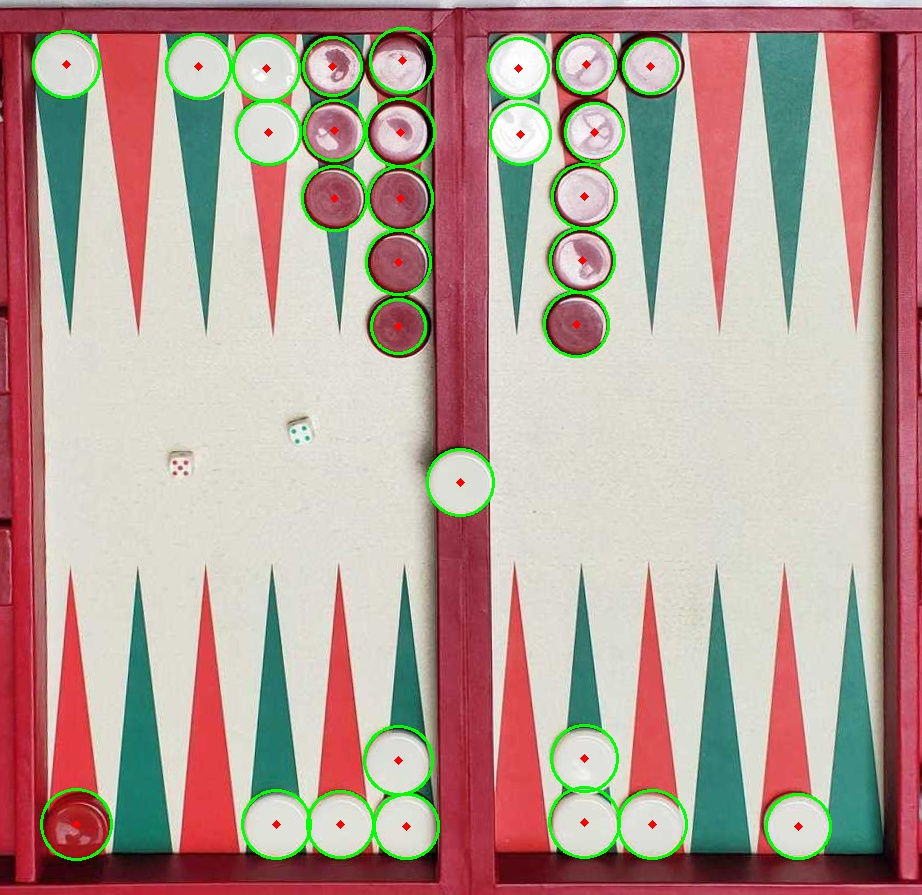
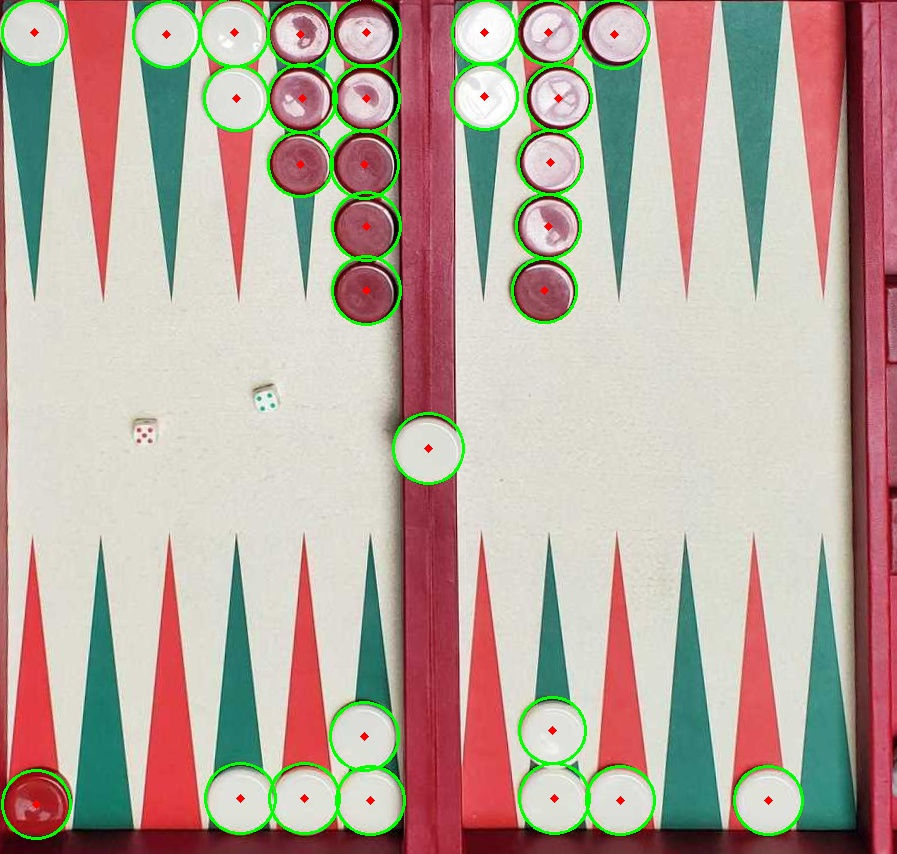
Fix code

diff --git a/warp_and_find_checkers.py b/warp_and_find_checkers.py
@@ -5,12 +5,12 @@ import json
 import argparse
 import numpy as np
 
-def projective_trans(image, coordiates, board_width_to_board_height):
+def projective_trans(image, coordinates, board_width_to_board_height):
 	rect = np.zeros((4, 2), dtype = "float32")
-	rect[0] = coordiates[0]
-	rect[1] = coordiates[1]
-	rect[2] = coordiates[2]
-	rect[3] = coordiates[3]
+	rect[0] = coordinates[0]
+	rect[1] = coordinates[1]
+	rect[2] = coordinates[2]
+	rect[3] = coordinates[3]
 
 	(tl, tr, br, bl) = rect
 
@@ -22,19 +22,18 @@ def projective_trans(image, coordiates, board_width_to_board_height):
 	heightB = np.sqrt(((tl[0] - bl[0]) ** 2) + ((tl[1] - bl[1]) ** 2))
 	max_height = max(int(heightA), int(heightB))
 
-	if max_width > max_height:
-		max_height = int(max_width/board_width_to_board_height)
-	else:
-		max_width = int(max_height*board_width_to_board_height)
+	max_height = int(max_width/board_width_to_board_height)
+
 
 	dst = np.array([
 		[0, 0],
-		[max_width - 1, 0],
-		[max_width - 1, max_height - 1],
-		[0, max_height - 1]], dtype = "float32")
+		[max_width, 0],
+		[max_width, max_height],
+		[0, max_height]], dtype = "float32")
+
 	# compute the perspective transform matrix
 	M = cv2.getPerspectiveTransform(rect, dst)
-	warped = cv2.warpPerspective(image, M, (max_width, max_height))
+	warped = cv2.warpPerspective(image, M, (int(max_width*1.05), int(max_height*1.03)))
 	
 	return warped, M
 
@@ -48,18 +47,16 @@ input_dir = args.indir
 output_dir = args.outdir
 
 input_imgs = list(glob.glob(os.path.join(input_dir, "*.jpg")))
-input_jsons = list(glob.glob(os.path.join(input_dir, "*.json")))
 
-input_imgs.sort()
-input_jsons.sort()
-
-
-for img_path, data_path in zip(input_imgs, input_jsons):
+for img_path in input_imgs:
+	#read image
 	img_original = cv2.imread(img_path)
-	#     cv2.imshow("img_original", img_original)
-	#     cv2.waitKey(0)
+	# metadata path
+	data_path = os.path.join(img_path + ".info.json")
+	# read metadata file
 	with open(data_path) as json_file:
 		json_data = json.load(json_file)
+	# extract metadata
 	board_coord = json_data["canonical_board"]["tl_tr_br_bl"]
 	bar_width_to_checker_width = json_data["canonical_board"]["bar_width_to_checker_width"]
 	board_width_to_board_height = json_data["canonical_board"]["board_width_to_board_height"]
@@ -68,32 +65,16 @@ for img_path, data_path in zip(input_imgs, input_jsons):
 	(tl, tr, br, bl) = board_coord
 	width_A = np.sqrt(((br[0] - bl[0]) ** 2) + ((br[1] - bl[1]) ** 2))
 	width_B = np.sqrt(((tr[0] - tl[0]) ** 2) + ((tr[1] - tl[1]) ** 2))
-	maxWidth = max(int(width_A), int(width_B))
+	max_width = max(int(width_A), int(width_B))
+
+	max_height = int(max_width/board_width_to_board_height)
 
 	# objects dimensions
-	checker_diameter = int(maxWidth/(12 + bar_width_to_checker_width))
+	checker_diameter = int(max_width/(12 + bar_width_to_checker_width))
 	bar_width = int((bar_width_to_checker_width*checker_diameter)/2)
 	pip_length = int(5*checker_diameter)
-	
-	# board cut correction
-	board_coord_corr = board_coord
-	#top left
-	board_coord_corr[0][0] = int(board_coord[0][0]-checker_diameter/2)
-	board_coord_corr[0][1] = int(board_coord[0][1]-checker_diameter/2)
 
-	#top right
-	board_coord_corr[1][0] = int(board_coord[1][0]+checker_diameter/2) 
-	board_coord_corr[1][1] = int(board_coord[1][1]-checker_diameter/2)
-
-	#bottom right
-	board_coord_corr[2][0] = int(board_coord[2][0]+checker_diameter/2)
-	board_coord_corr[2][1] = int(board_coord[2][1]+checker_diameter/2)
-
-	#bottom left
-	board_coord_corr[3][0] = int(board_coord[3][0]-checker_diameter/2)
-	board_coord_corr[3][1] = int(board_coord[3][1]+checker_diameter/2)
-
-	warped, transform = projective_trans(img_original, board_coord_corr, board_width_to_board_height)
+	warped, transform = projective_trans(img_original, board_coord, board_width_to_board_height)
 	# cv2.imshow("img_original", img_original)
 	# cv2.imshow("warped", warped)
 	# cv2.waitKey(0)
@@ -102,7 +83,7 @@ for img_path, data_path in zip(input_imgs, input_jsons):
 	gray_warped = cv2.cvtColor(warped, cv2.COLOR_BGR2GRAY)
 	#compute the circles
 	circles = cv2.HoughCircles(gray_warped,cv2.HOUGH_GRADIENT,1,int(checker_diameter/2),
-                            param1=50,param2=30,minRadius=int((checker_diameter/2)*0.8),maxRadius=int((checker_diameter/2)*1.1))
+                            param1=50,param2=30,minRadius=int((checker_diameter/2)*0.9),maxRadius=int((checker_diameter/2)*1.1))
 	circles = np.uint16(np.around(circles))
 
 	for i in circles[0,:]:
@@ -111,36 +92,24 @@ for img_path, data_path in zip(input_imgs, input_jsons):
 		# draw the center of the circle
 		cv2.circle(warped,(i[0],i[1]),2,(0,0,255),3)
 
-	(tl_cr, tr_cr, br_cr, bl_cr) = board_coord_corr
-	# transform the rectangle from the original image to the warped image space
-	tl_x = (transform[0][0]*tl_cr[0] + transform[0][1]*tl_cr[1] + transform[0][2]) / ((transform[2][0]*tl_cr[0] + transform[2][1]*tl_cr[1] + transform[2][2]))
-	tl_y = (transform[1][0]*tl_cr[0] + transform[1][1]*tl_cr[1] + transform[1][2]) / ((transform[2][0]*tl_cr[0] + transform[2][1]*tl_cr[1] + transform[2][2]))
-	br_x = (transform[0][0]*br_cr[0] + transform[0][1]*br_cr[1] + transform[0][2]) / ((transform[2][0]*br_cr[0] + transform[2][1]*br_cr[1] + transform[2][2]))
-	br_y = (transform[1][0]*br_cr[0] + transform[1][1]*br_cr[1] + transform[1][2]) / ((transform[2][0]*br_cr[0] + transform[2][1]*br_cr[1] + transform[2][2]))
-	warped_tl = (int(tl_x), int(tl_y))
-	warped_tr = (int(br_x), int(tl_y))
-	warped_br = (int(br_x), int(br_y))
-	warped_bl = (int(tl_x), int(br_y))
-
 	#image size 
 	height, width = warped.shape[:2]
 	#half board width
 	half_width = int( width/2 - bar_width)
 	#half board height
-	half_height = int( height/2 - bar_width)
+	half_height = int( height/2)
 
 	top_list = [0, 0, 0, 0, 0, 0, 0, 0, 0, 0, 0, 0]
 	bottom_list = [0, 0, 0, 0, 0, 0, 0, 0, 0, 0, 0, 0]
 	#for each pip on the bottom left
 	for n_pip in range(0,6):
-		tl_pip = (warped_tl[0] + n_pip*checker_diameter + 2*bar_width, warped_tl[1] + half_height)
-		br_pip = (tl_pip[0] + checker_diameter, warped_bl[1])
+		tl_pip = (n_pip*checker_diameter, height - pip_length)
+		br_pip = (tl_pip[0] + checker_diameter, height)
 		# cv2.rectangle(warped, tl_pip, br_pip, color=(255,0,0), thickness=5)
 		for i in circles[0,:]:
 			x_center = i[0]
 			y_center = i[1]
 			radius = i[2]
-
 			# checker is inside pip
 			if x_center > tl_pip[0] and x_center < br_pip[0]:
 				if y_center > tl_pip[1]:
@@ -148,17 +117,17 @@ for img_path, data_path in zip(input_imgs, input_jsons):
 
 	#for each pip on the bottom right
 	for n_pip in range(6,12):
-		tl_pip = (warped_tl[0] + n_pip*checker_diameter + 4*bar_width, warped_tl[1] + half_height)
-		br_pip = (tl_pip[0] + checker_diameter, warped_bl[1])
-		# cv2.rectangle(warped, tl_pip, br_pip, color=(255,0,0), thickness=5)
+		tl_pip = (n_pip*checker_diameter + 2*bar_width, height -  pip_length)
+		br_pip = (tl_pip[0] + checker_diameter, height)
+		# cv2.rectangle(warped, tl_pip, br_pip, color=(0,255,0), thickness=5)
 		for i in circles[0,:]:
 			x_center = i[0]
 			y_center = i[1]
 			radius = i[2]
 
-			# checker is over the bar
-			if x_center > half_width and x_center < half_width + 2*bar_width:
-				continue
+			# # checker is over the bar
+			# if x_center > half_width and x_center < half_width + 2*bar_width:
+			# 	continue
 			# checker is inside pip
 			if x_center > tl_pip[0] and x_center < br_pip[0]:
 				if y_center > tl_pip[1]:
@@ -167,14 +136,13 @@ for img_path, data_path in zip(input_imgs, input_jsons):
 
 	#for each pip on the top left
 	for n_pip in range(0,6):
-		tl_pip = (warped_tl[0] + n_pip*checker_diameter + 2*bar_width, warped_tl[1])
-		br_pip = (tl_pip[0] + checker_diameter, warped_bl[1] - half_height)
-		# cv2.rectangle(warped, tl_pip, br_pip, color=(255,0,0), thickness=5)
+		tl_pip = (n_pip*checker_diameter, 0)
+		br_pip = (tl_pip[0] + checker_diameter, pip_length)
+		# cv2.rectangle(warped, tl_pip, br_pip, color=(0,0,255), thickness=5)
 		for i in circles[0,:]:
 			x_center = i[0]
 			y_center = i[1]
 			radius = i[2]
-
 			# checker is inside pip
 			if x_center > tl_pip[0] and x_center < br_pip[0]:
 				if y_center > tl_pip[1] and y_center < br_pip[1]:
@@ -182,23 +150,23 @@ for img_path, data_path in zip(input_imgs, input_jsons):
 
 	#for each pip on the top right
 	for n_pip in range(6,12):
-		tl_pip = (warped_tl[0] + n_pip*checker_diameter + 4*bar_width, warped_tl[1])
-		br_pip = (tl_pip[0] + checker_diameter, warped_bl[1] - half_height)
-		# cv2.rectangle(warped, tl_pip, br_pip, color=(255,0,0), thickness=5)
+		tl_pip = (n_pip*checker_diameter + 2*bar_width, 0)
+		br_pip = (tl_pip[0] + checker_diameter, pip_length)
+		# cv2.rectangle(warped, tl_pip, br_pip, color=(255,255,255), thickness=5)
 		for i in circles[0,:]:
 			x_center = i[0]
 			y_center = i[1]
 			radius = i[2]
 
-			# checker is over the bar
-			if x_center > half_width and x_center < half_width + 2*bar_width:
-				continue
+			# # checker is over the bar
+			# if x_center > half_width and x_center < half_width + 2*bar_width:
+			# 	continue
 			# checker is inside pip
 			if x_center > tl_pip[0] and x_center < br_pip[0]:
 				if y_center > tl_pip[1] and y_center < br_pip[1]:
 					top_list[n_pip] = top_list[n_pip] + 1
 
-	# cv2.rectangle(warped, warped_tl, warped_br, color=(0,255,0), thickness=5)
+	# cv2.rectangle(warped, tl, br, color=(0,255,0), thickness=5)
 	# cv2.imshow('detected circles', warped)
 	# cv2.waitKey(0)
 	# cv2.destroyAllWindows()
